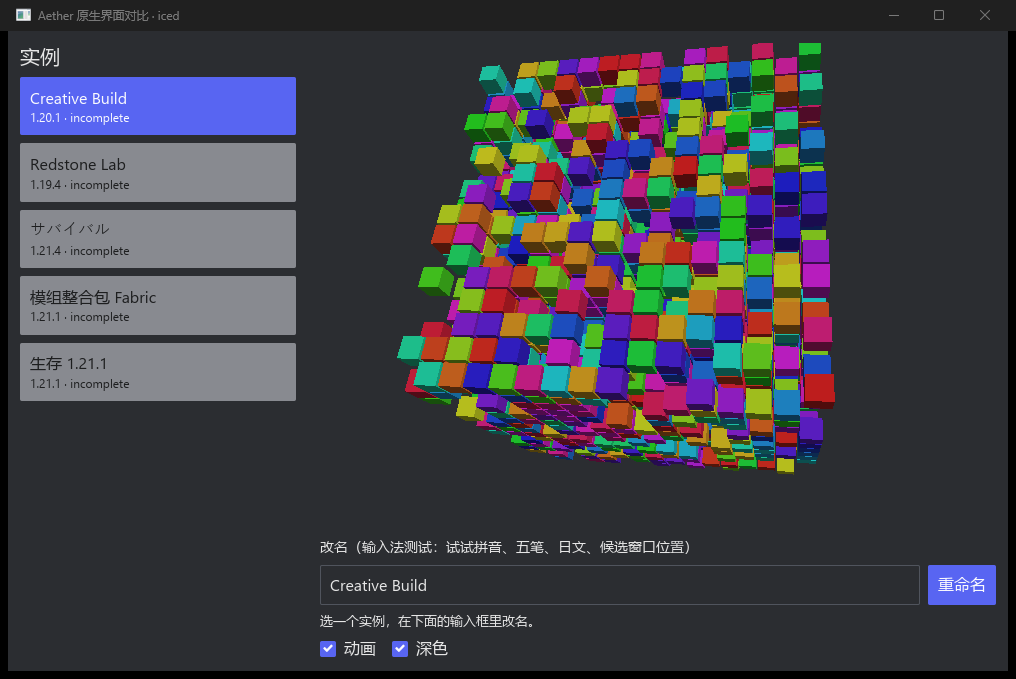
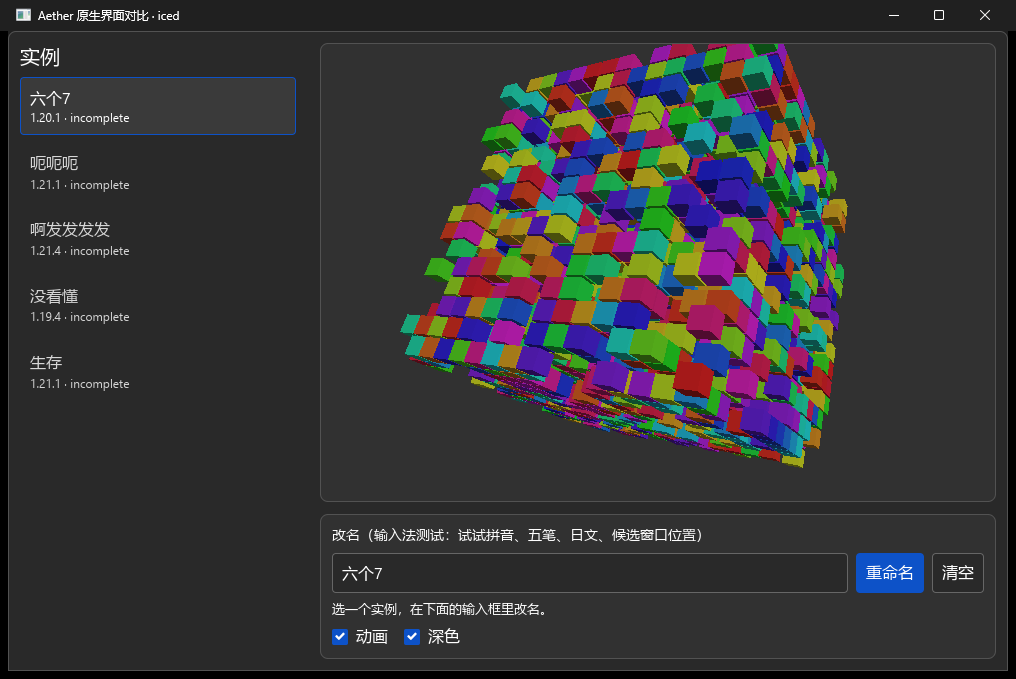
docs(ui): iced can carry a Fluent look; add a token layer to the spike

diff --git a/spikes/native-ui/iced/src/fluent.rs b/spikes/native-ui/iced/src/fluent.rs
@@ -1,0 +1,251 @@
+//! The Fluent design tokens of `src/lib/brand.ts` and the Fluent neutrals, as an iced theme and
+//! a handful of style functions. This is the layer a native rewrite would have to own, since
+//! iced has no CSS and no ready-made Fluent set. Colour values follow Fluent 2 (web), radii
+//! are the `borderRadiusMedium` (4) and `borderRadiusLarge` (8) tokens.
+
+use iced::theme::Palette;
+use iced::widget::{button, container, text_input};
+use iced::{Background, Border, Color, Shadow, Theme, Vector};
+
+pub const RADIUS_MEDIUM: f32 = 4.0;
+pub const RADIUS_LARGE: f32 = 8.0;
+
+const BRAND_HUE: f32 = 218.0;
+const BRAND_SATURATION: f32 = 88.0;
+const DARKEST: f32 = 7.0;
+const LIGHTEST: f32 = 94.0;
+
+fn rgb(hex: u32) -> Color {
+    Color::from_rgb8((hex >> 16) as u8, (hex >> 8) as u8, hex as u8)
+}
+
+fn hsl(hue: f32, saturation: f32, lightness: f32) -> Color {
+    let s = saturation / 100.0;
+    let l = lightness / 100.0;
+    let a = s * l.min(1.0 - l);
+    let channel = |n: f32| {
+        let k = (n + hue / 30.0) % 12.0;
+        l - a * (-1.0f32).max((k - 3.0).min((9.0 - k).min(1.0)))
+    };
+    Color::from_rgb(channel(0.0), channel(8.0), channel(4.0))
+}
+
+/// The brand ramp of `brand.ts`: step 10 is the darkest, 160 the lightest.
+pub fn brand(step: u32) -> Color {
+    let index = (step / 10 - 1) as f32;
+    let lightness = DARKEST + index * (LIGHTEST - DARKEST) / 15.0;
+    let edge = index.min(15.0 - index);
+    let saturation = BRAND_SATURATION - (3.0 - edge).max(0.0) * 8.0;
+    hsl(BRAND_HUE, saturation, lightness)
+}
+
+/// The neutral and brand colours one style function needs, picked by the theme's darkness.
+#[derive(Clone, Copy)]
+pub struct Tokens {
+    pub background1: Color,
+    pub background2: Color,
+    pub background3: Color,
+    /// A card: the foreground at 4 % over the window.
+    pub card: Color,
+    pub card_hover: Color,
+    pub foreground1: Color,
+    pub foreground2: Color,
+    pub foreground3: Color,
+    pub stroke1: Color,
+    pub stroke2: Color,
+    pub brand: Color,
+    pub brand_hover: Color,
+    pub brand_pressed: Color,
+    pub on_brand: Color,
+}
+
+impl Tokens {
+    pub fn of(theme: &Theme) -> Self {
+        if theme.palette().background.r < 0.5 {
+            Self::dark()
+        } else {
+            Self::light()
+        }
+    }
+
+    pub fn dark() -> Self {
+        Self {
+            background1: rgb(0x29_29_29),
+            background2: rgb(0x1F_1F_1F),
+            background3: rgb(0x14_14_14),
+            card: Color::from_rgba(1.0, 1.0, 1.0, 0.04),
+            card_hover: Color::from_rgba(1.0, 1.0, 1.0, 0.08),
+            foreground1: Color::WHITE,
+            foreground2: rgb(0xD6_D6_D6),
+            foreground3: rgb(0xAD_AD_AD),
+            stroke1: rgb(0x66_66_66),
+            stroke2: rgb(0x52_52_52),
+            brand: brand(70),
+            brand_hover: brand(80),
+            brand_pressed: brand(40),
+            on_brand: Color::WHITE,
+        }
+    }
+
+    pub fn light() -> Self {
+        Self {
+            background1: Color::WHITE,
+            background2: rgb(0xFA_FA_FA),
+            background3: rgb(0xF5_F5_F5),
+            card: Color::from_rgba(0.0, 0.0, 0.0, 0.04),
+            card_hover: Color::from_rgba(0.0, 0.0, 0.0, 0.08),
+            foreground1: rgb(0x24_24_24),
+            foreground2: rgb(0x42_42_42),
+            foreground3: rgb(0x61_61_61),
+            stroke1: rgb(0xD1_D1_D1),
+            stroke2: rgb(0xE0_E0_E0),
+            brand: brand(80),
+            brand_hover: brand(70),
+            brand_pressed: brand(40),
+            on_brand: Color::WHITE,
+        }
+    }
+}
+
+/// The iced theme for either scheme: Fluent's window background and text, the brand colour as
+/// primary. Widgets that are not given a style function use these five colours.
+pub fn theme(dark: bool) -> Theme {
+    let t = if dark { Tokens::dark() } else { Tokens::light() };
+    Theme::custom(
+        if dark { "Aether dark" } else { "Aether light" }.to_owned(),
+        Palette {
+            background: t.background2,
+            text: t.foreground1,
+            primary: t.brand,
+            success: rgb(0x10_7C_10),
+            warning: rgb(0xF7_63_0C),
+            danger: rgb(0xC5_0F_1F),
+        },
+    )
+}
+
+fn border(color: Color, radius: f32) -> Border {
+    Border {
+        color,
+        width: 1.0,
+        radius: radius.into(),
+    }
+}
+
+/// A card: a 4 % overlay with a hairline and large corners.
+pub fn card(theme: &Theme) -> container::Style {
+    let t = Tokens::of(theme);
+    container::Style {
+        background: Some(Background::Color(t.card)),
+        border: border(t.stroke2, RADIUS_LARGE),
+        text_color: Some(t.foreground1),
+        ..container::Style::default()
+    }
+}
+
+/// The page layer: the lighter surface with rounded top corners, as in `shell.css`.
+pub fn page(theme: &Theme) -> container::Style {
+    let t = Tokens::of(theme);
+    container::Style {
+        background: Some(Background::Color(t.background1)),
+        border: Border {
+            color: t.stroke2,
+            width: 1.0,
+            radius: iced::border::top(RADIUS_LARGE),
+        },
+        text_color: Some(t.foreground1),
+        ..container::Style::default()
+    }
+}
+
+/// The primary action (like "登录微软账户"): brand fill, hover and pressed steps.
+pub fn primary_button(theme: &Theme, status: button::Status) -> button::Style {
+    let t = Tokens::of(theme);
+    let fill = match status {
+        button::Status::Active => t.brand,
+        button::Status::Hovered => t.brand_hover,
+        button::Status::Pressed => t.brand_pressed,
+        button::Status::Disabled => t.stroke2,
+    };
+    button::Style {
+        background: Some(Background::Color(fill)),
+        text_color: if matches!(status, button::Status::Disabled) {
+            t.foreground3
+        } else {
+            t.on_brand
+        },
+        border: Border {
+            radius: RADIUS_MEDIUM.into(),
+            ..Border::default()
+        },
+        ..button::Style::default()
+    }
+}
+
+/// The secondary action: outlined, neutral fill.
+pub fn secondary_button(theme: &Theme, status: button::Status) -> button::Style {
+    let t = Tokens::of(theme);
+    let fill = match status {
+        button::Status::Active => t.background1,
+        button::Status::Hovered => t.background3,
+        button::Status::Pressed => t.background2,
+        button::Status::Disabled => t.background1,
+    };
+    button::Style {
+        background: Some(Background::Color(fill)),
+        text_color: if matches!(status, button::Status::Disabled) {
+            t.foreground3
+        } else {
+            t.foreground1
+        },
+        border: border(t.stroke1, RADIUS_MEDIUM),
+        ..button::Style::default()
+    }
+}
+
+/// A list row or navigation item: transparent until hovered; the selected one is a card with
+/// a brand bar, like the account cards.
+pub fn nav_item(selected: bool) -> impl Fn(&Theme, button::Status) -> button::Style {
+    move |theme, status| {
+        let t = Tokens::of(theme);
+        let fill = match (selected, status) {
+            (true, _) => t.card_hover,
+            (false, button::Status::Hovered | button::Status::Pressed) => t.card,
+            _ => Color::TRANSPARENT,
+        };
+        button::Style {
+            background: Some(Background::Color(fill)),
+            text_color: if selected { t.foreground1 } else { t.foreground2 },
+            border: Border {
+                color: if selected { t.brand } else { Color::TRANSPARENT },
+                width: if selected { 1.0 } else { 0.0 },
+                radius: RADIUS_MEDIUM.into(),
+            },
+            shadow: Shadow {
+                color: Color::TRANSPARENT,
+                offset: Vector::ZERO,
+                blur_radius: 0.0,
+            },
+            ..button::Style::default()
+        }
+    }
+}
+
+/// A text box: neutral fill and hairline, the brand colour on focus.
+pub fn input(theme: &Theme, status: text_input::Status) -> text_input::Style {
+    let t = Tokens::of(theme);
+    let line = match status {
+        text_input::Status::Active => t.stroke1,
+        text_input::Status::Hovered => t.foreground3,
+        text_input::Status::Focused { .. } => t.brand,
+        text_input::Status::Disabled => t.stroke2,
+    };
+    text_input::Style {
+        background: Background::Color(t.background1),
+        border: border(line, RADIUS_MEDIUM),
+        icon: t.foreground3,
+        placeholder: t.foreground3,
+        value: t.foreground1,
+        selection: Color { a: 0.35, ..t.brand },
+    }
+}

diff --git a/spikes/native-ui/iced/src/main.rs b/spikes/native-ui/iced/src/main.rs
@@ -11,6 +11,7 @@ use native_ui_spike_common::bench::Mode;
 use native_ui_spike_common::model::Model;
 use native_ui_spike_common::stats;
 
+mod fluent;
 mod gpu;
 
 fn main() -> iced::Result {
@@ -81,7 +82,7 @@ impl App {
     }
 
     fn theme(&self) -> Theme {
-        if self.dark { Theme::Dark } else { Theme::Light }
+        fluent::theme(self.dark)
     }
 
     fn view(&self) -> Element<'_, Message> {
@@ -99,7 +100,7 @@ impl App {
                     )
                     .width(Fill)
                     .padding(10)
-                    .style(if selected { button::primary } else { button::secondary })
+                    .style(fluent::nav_item(selected))
                     .on_press(Message::Select(index)),
                 )
             },
@@ -111,8 +112,16 @@ impl App {
                 text_input("实例名称", &self.model.input)
                     .on_input(Message::Input)
                     .on_submit(Message::Rename)
+                    .style(fluent::input)
                     .padding(10),
-                button("重命名").padding(10).on_press(Message::Rename),
+                button("重命名")
+                    .padding(10)
+                    .style(fluent::primary_button)
+                    .on_press(Message::Rename),
+                button("清空")
+                    .padding(10)
+                    .style(fluent::secondary_button)
+                    .on_press(Message::Input(String::new())),
             ]
             .spacing(8),
             text(self.model.message.clone()).size(13),
@@ -126,10 +135,17 @@ impl App {
 
         let preview = shader(gpu::CubeView { angle: self.angle }).width(Fill).height(Fill);
 
-        row![
+        container(row![
             container(scrollable(list)).width(300).padding(12),
-            column![preview, form].spacing(12).padding(12).width(Fill),
-        ]
+            column![
+                container(preview).style(fluent::card).padding(1).height(Fill),
+                container(form).style(fluent::card).padding(12),
+            ]
+            .spacing(12)
+            .padding(12)
+            .width(Fill),
+        ])
+        .style(fluent::page)
         .into()
     }
 }
